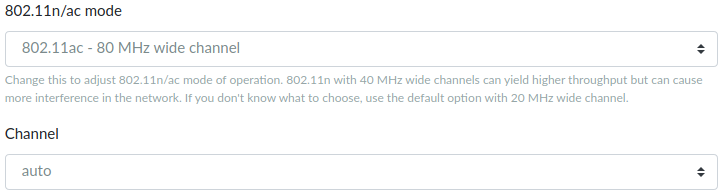
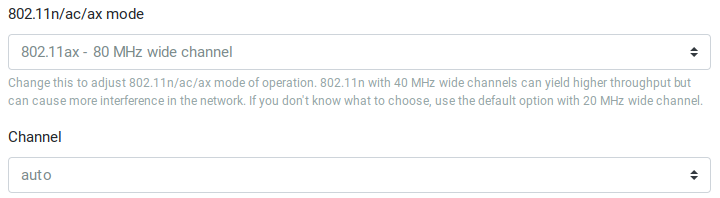
WIP: reforis update supported 802.11 modes description

diff --git a/docs/basics/reforis/wifi/reforis-wifi.md b/docs/basics/reforis/wifi/reforis-wifi.md
@@ -75,16 +75,23 @@ the _Enable_ checkbox multiple fields are displayed:
 
 There are also two fields that can be used for Wi-Fi tuning:
 
-* **802.11n/ac mode** – There are two specifications used for fast Wi-Fi
-  networks: "n" (both for 2.4 and 5 GHz) and "ac" (5 GHz only). Each
-  of them can use various frequency bandwidths (20 or 40 MHz for "n"
-  and 20 up to 80 MHz for "ac"). The "ac" specification gives much higher
-  speed but is less compatible (older device don't support it) and is more
-  susceptible to interference. Similarly, broader frequency bandwidth means
-  higher speed but also higher susceptibility to inferference. Keep the
-  default values, test your Wi-Fi network and then you can experiment with
-  tuning. If you set _Disabled_ here only the legacy and slow "b/g"
-  specifications will be available.
+* **802.11n/ac/ax mode** – There are multiple specifications for fast
+  Wi-Fi networks supported in reForis:
+
+    | IEEE Standard | 2.4 GHz | 5 GHz | Note                        |
+    | ------------- | --------| ----- | --------------------------- |
+    |  802.11n      | Yes     | Yes   |                             |
+    |  802.11ac     | Yes     |       |                             |
+    |  802.11ax     | Yes     | Yes   | Introduced in Turris OS 6.0 |
+
+    Each of them can use various frequency bandwidths (20 or 40 MHz for "n" and
+    20 up to 80 MHz for "ac"). The "ac" specification gives much higher speed
+    but is less compatible (older device don't support it) and is more
+    susceptible to interference. Similarly, broader frequency bandwidth means
+    higher speed but also higher susceptibility to interference. Keep the
+    default values, test your Wi-Fi network and then you can experiment with
+    tuning. If you set _Disabled_ here only the legacy and slow "b/g"
+    specifications will be available.
 
 * **Channel** – Wi-Fi network can work on various channels (representing
   defined frequencies). The best approach is usually to use "auto" here.
